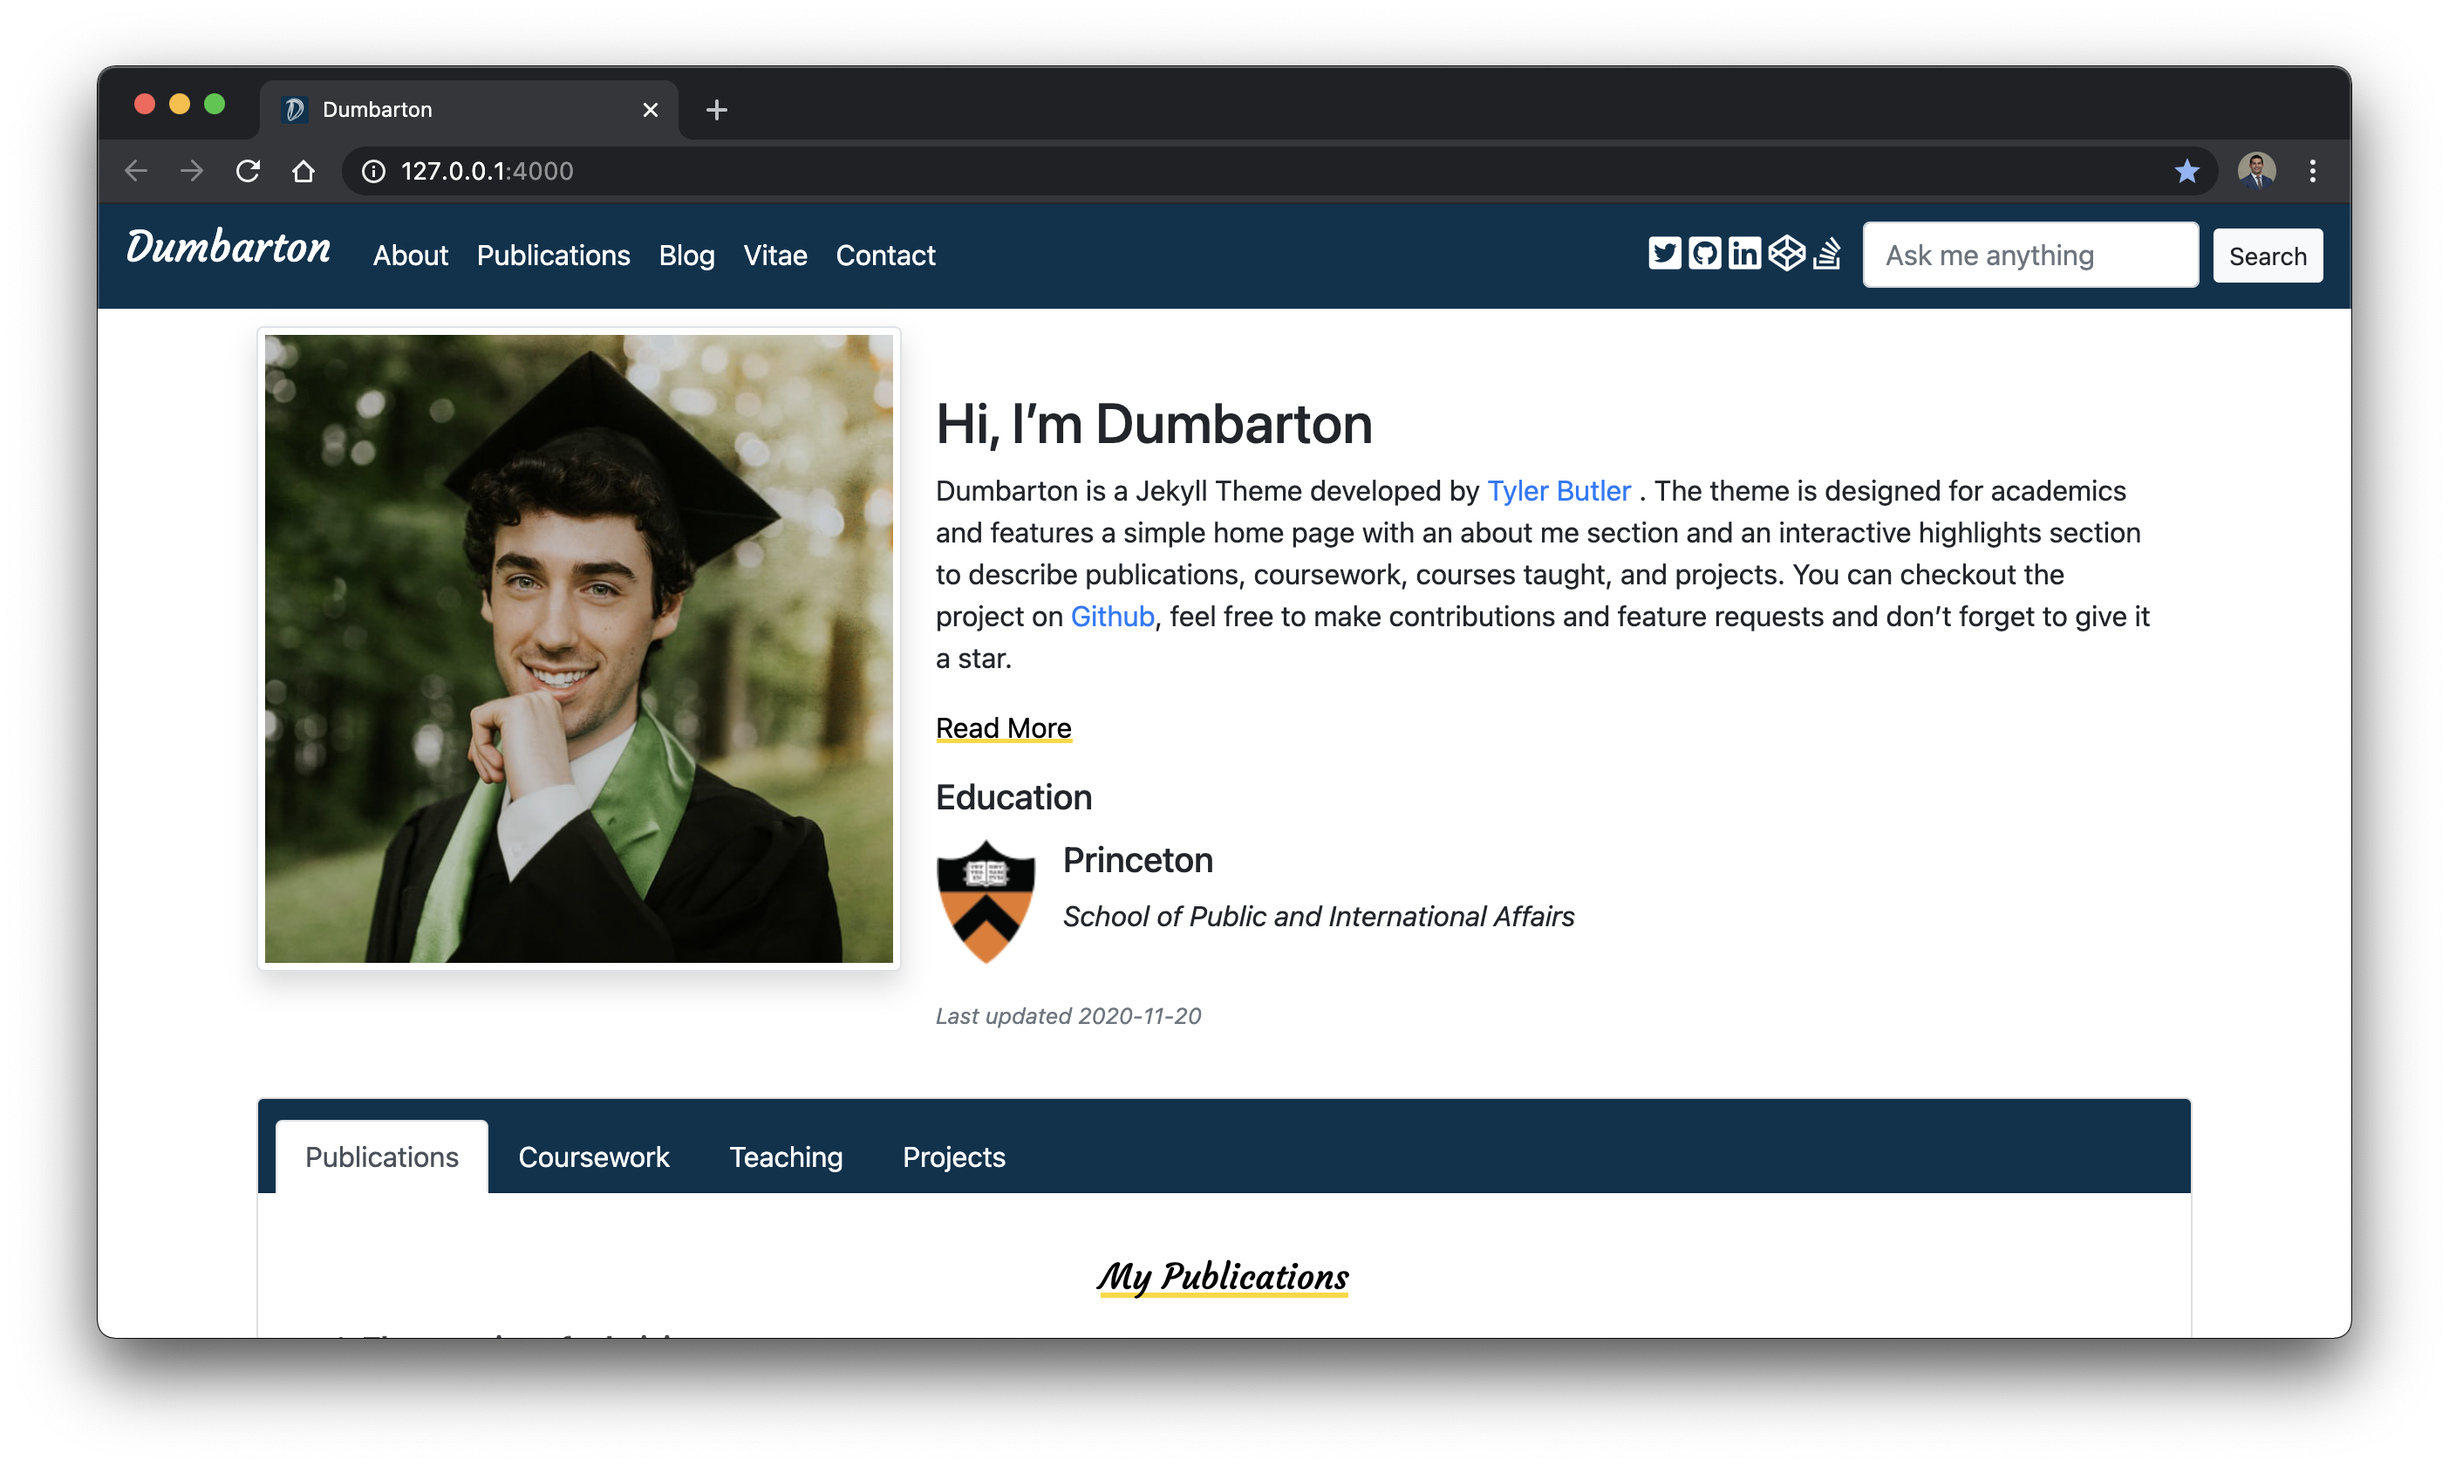
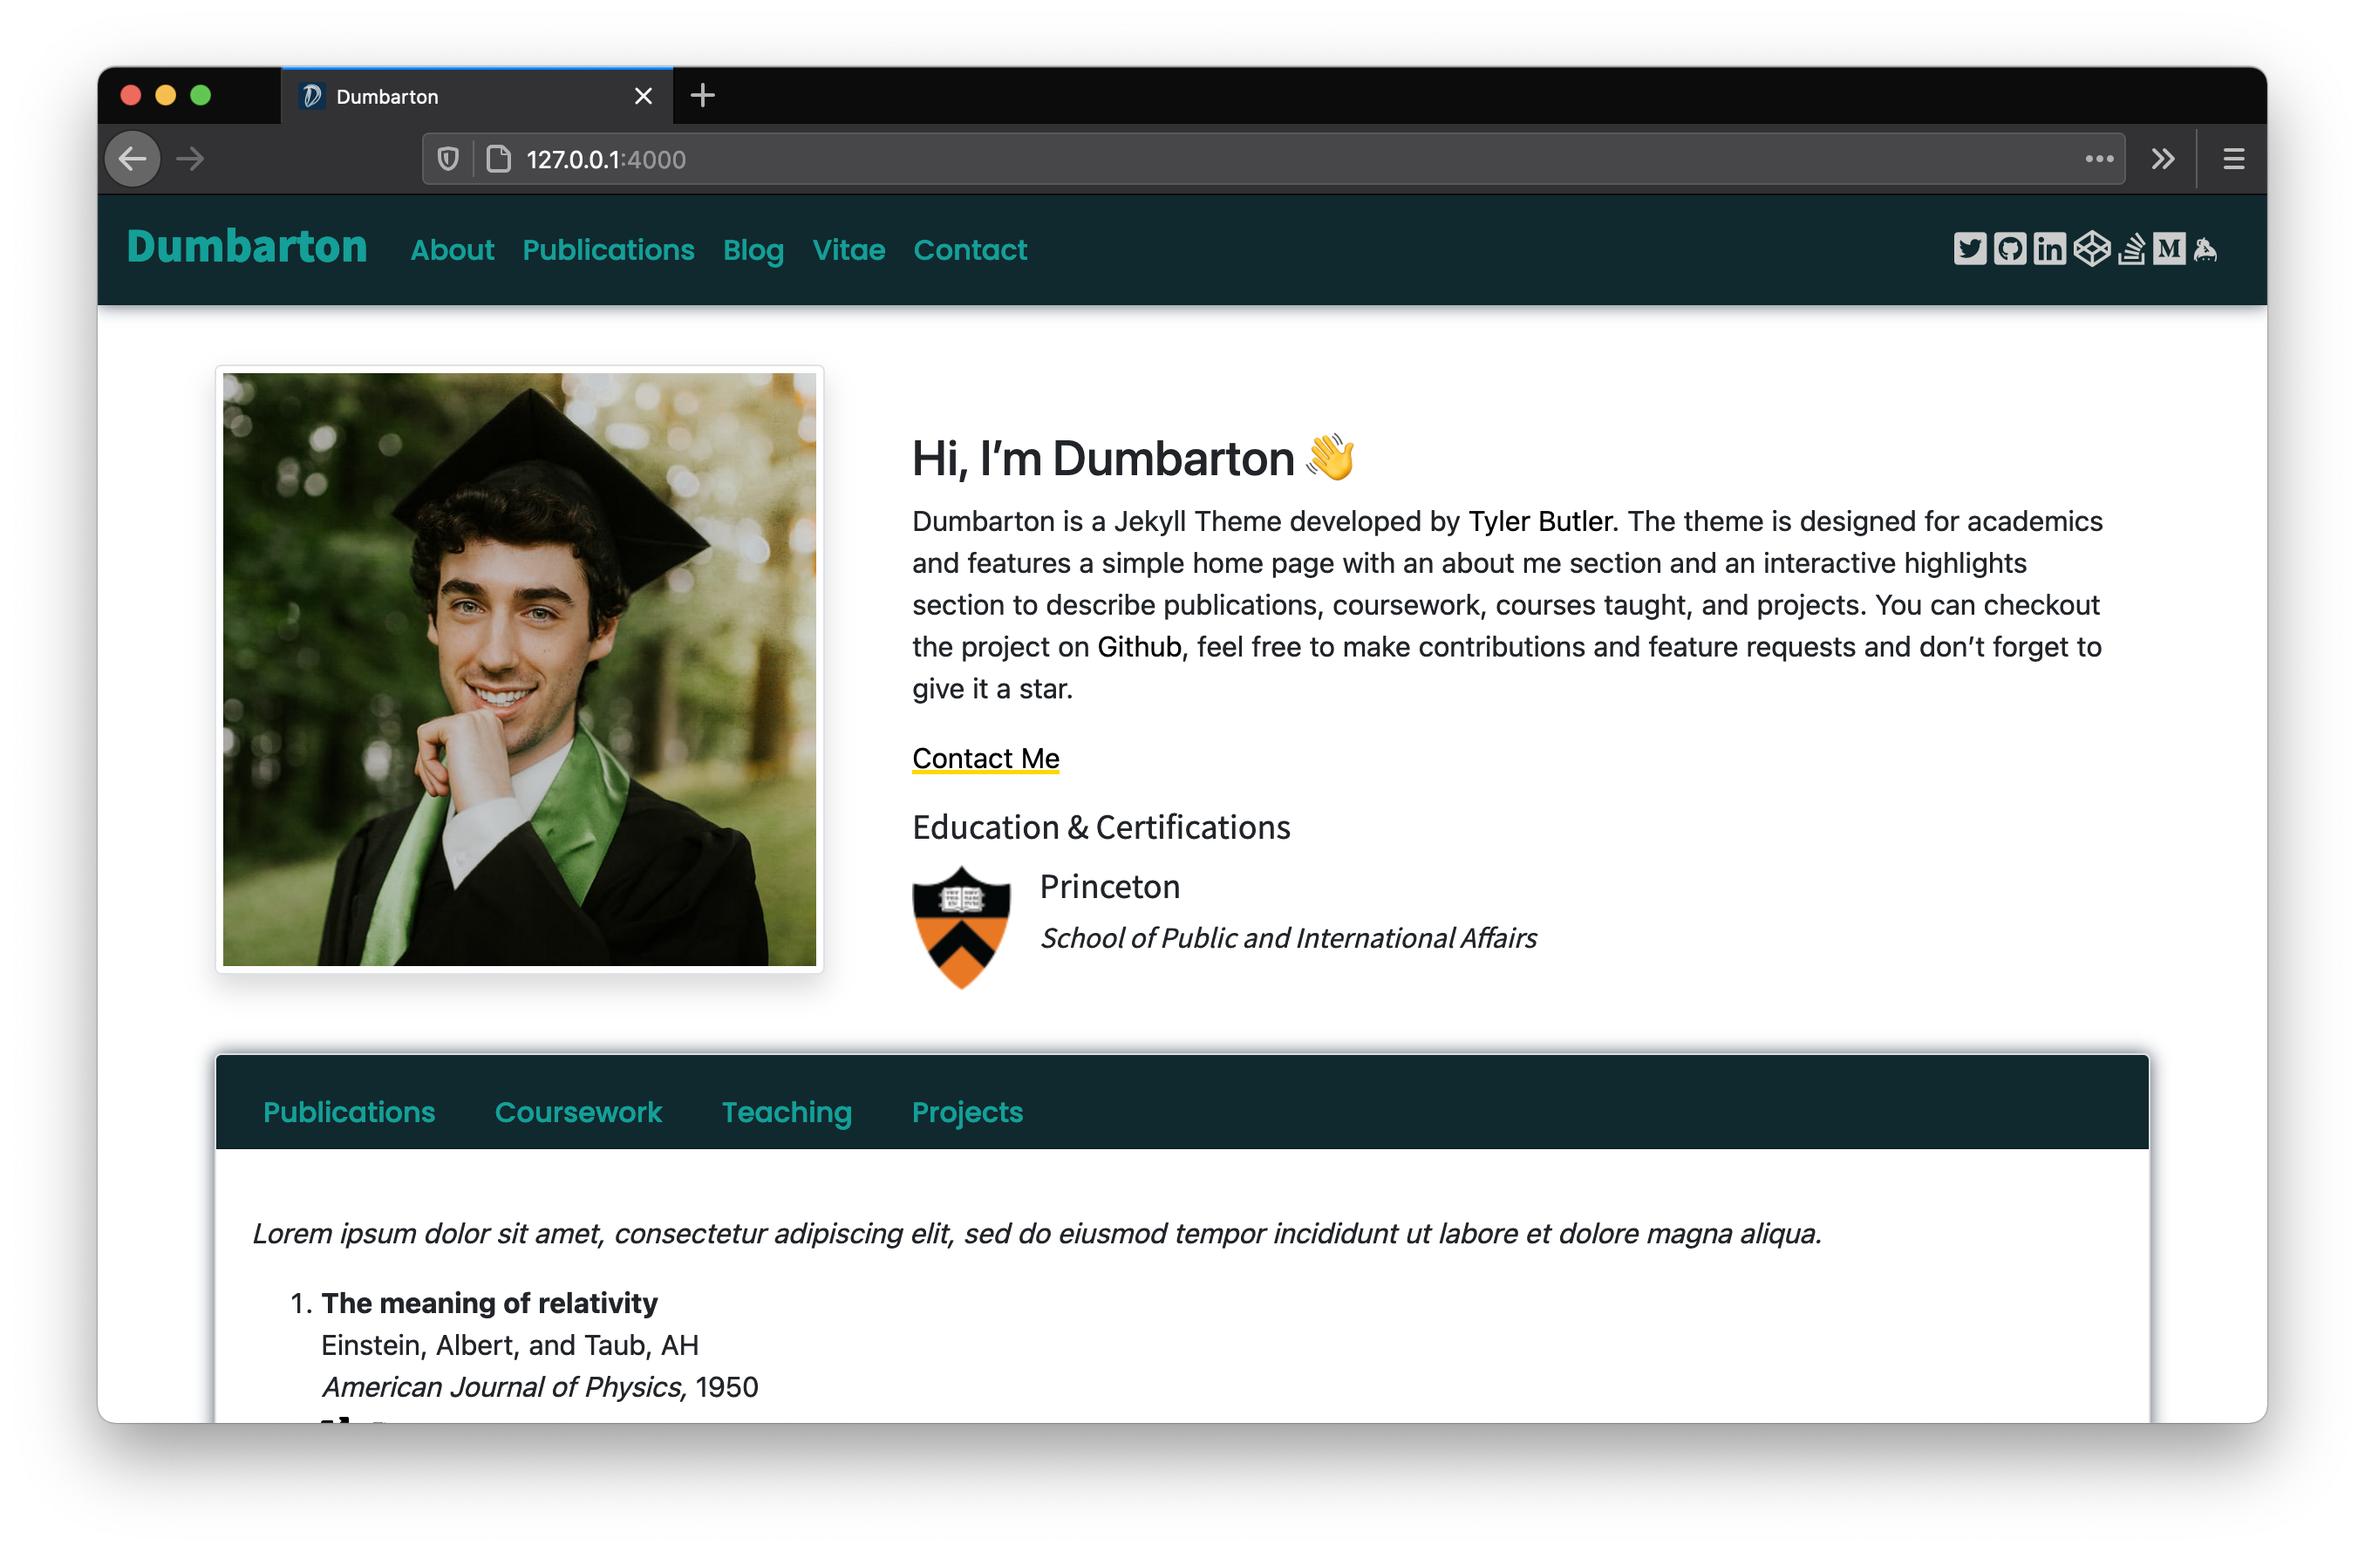
update to docs

diff --git a/README.md b/README.md
@@ -28,11 +28,12 @@
 
 [![Screenshot](https://raw.githubusercontent.com/tcbutler320/Jekyll-Theme-Dumbarton/dev/screenshot.png "Sample screenshot")](https://dumbarton.netlify.app/)
 
+[![Screenshot2](https://raw.githubusercontent.com/tcbutler320/Jekyll-Theme-Dumbarton/dev/screenshot2.png "Sample screenshot")](https://dumbarton.netlify.app/)
+
 ## Table of Contents
 
 - [Table of Contents](#table-of-contents)
 - [About](#about)
-  - [Main Features](#main-features)
 - [Installation](#installation)
 - [Setting Options](#setting-options)
   - [Base  Settings](#base--settings)
@@ -52,18 +53,6 @@
 
 Dumbarton is a Jekyll Theme developed by Tyler Butler. The theme is designed for academics and features a simple home page with an about me section, a blog, and an interactive highlights section to describe publications, coursework, courses taught, and projects. UI design with Bootstrap and Animate CSS.
 
-### Main Features
-
-- Home Page
-    - [x] Publications 
-    - [ ] Automatic bibliography formatting with jekyll-scholar 
-    - [x] Coursework
-    - [x] Teaching 
-    - [x] Projects
-- Blog
-    - [x] Wordpress-Styled Blog Page 
-    - [ ] Sidebar Widgets
-    - [ ] Embedded Twitter Timeline 
 
 **A Note on Compatability**
 
@@ -80,7 +69,6 @@ Follow the following instructions to install the Dumbarton theme:
     ```
 2. Use Bundler to install dependancies
     ```bash
-    bundle config --local set path vendor/bundle
     bundle install
     ```
 3. Start the Jekyll development server
@@ -112,13 +100,53 @@ There are many settings available to users to change how the theme looks. These 
 | `tags`  	|  Used to generate tags widget on blogs page, seperated by spaces  	| e.g. `tags:  post jekyll`  	|
 | `comments`   | Enable comments on blog posts using gitalk. **Not Currently Working**    |  `comments: false`   |
 
-### Theme Settings 
+### Theme Settings   
+
+
+**UI 2.0 Color Schemes 🌈**  
+The recent Dumbarton release supports Color Schemes! To pick a pre-configured color theme, change the `ui-theme` option in `_config.yml` . To create a new theme add a new entry in `_data/themes.yml`    
+
+```yml
+abyss:
+    name: abyss
+    nav-color: "#10292e"
+    nav-text: "#149f98"
+    title-font: "Noto Sans JP"
+    link-font: "#272343"
+    link-color: "#272343"
+    link-font: "Poppins"
+    font: "Poppins"
+    font-color: "Black"
+    social-color: "#CCCCCC"
+    footer-social-color: "Black"
+    button-color: "black"
+    home-highlight-background: "#10292e"
+    home-highlight-header-text: "#149f98"
+    education-title-font: "Noto Sans JP"
+    education-title-size: "18px"
+    education-entry-font: "Noto Sans JP"
+    education-entry-size: "18px"
+    education-section-size: "15px"
+    certification-title-font: "Noto Sans JP"
+    certification-title-size: "18px"
+    certification-entry-font: "Noto Sans JP"
+    certification-entry-size: "18px"
+    certification-section-size: "15px"
+    highlights-tab-color: "White"
+    projects-color: "Black"
+    border-style: ""
+    post-tag-size: "20px"
+    post-title-size: "36px"
+    post-author-size: "15px"
+    post-font-weight: "700"
+    default-button-color: ""
+```
+
+
+
 
 | Field  	| Description  	| Options  	|
 |---	|---	|---	|
-| `nav-color`  	|  Color of the top navivation bar 	|  e.g. `"#00334e"` 	|
-| `footer-color`  	|  Color of the bottom footer bar 	|  e.g. `"#00334e"` 	|
-| `card-color`  	|  Color of additional cards like the home highlights section, as well as buttons used on the blog and contact me page 	|  e.g. `"#00334e"` 	|
 |  `nav-dIcon` 	|  Used as the nav bar drop down icon on mobile or small screen view 	| Select any fontawesome icon, e.g. `"fas fa-caret-down"`  	|
 |  `animate` 	| When enabled, home page animations will be turned on and used upon first loading the page  	| e.g. `true`, `false`  	|
 |  `home_option` 	| Used to change the section below the 'about me' on the home page. **Note that only option `education` is currently working**  	|  e.g. `education` 	|
@@ -184,9 +212,11 @@ Site favicons are located at `/assets/img/icons`. You can use a [Favicon Generat
 I borrowed concepts and assets from various other open source projects. A special thanks for everyone who contributed to Jekyll-Theme-Dumbarton. 
 
 ### Code
-
+- [Corey](https://codepen.io/Corsurath/pen/abbxNpj)
+  - Used as a concept for the blog layout v 2.0
 - [Masresha](https://codepen.io/masresha)
-    - [Decision Making App](https://codepen.io/masresha/pen/KyLrbK): Used as a concept for the blog layout
+    - [Decision Making App](https://codepen.io/masresha/pen/KyLrbK): Used as a concept for the blog layout v 1.0
+    - 
 
 ### Images
 
